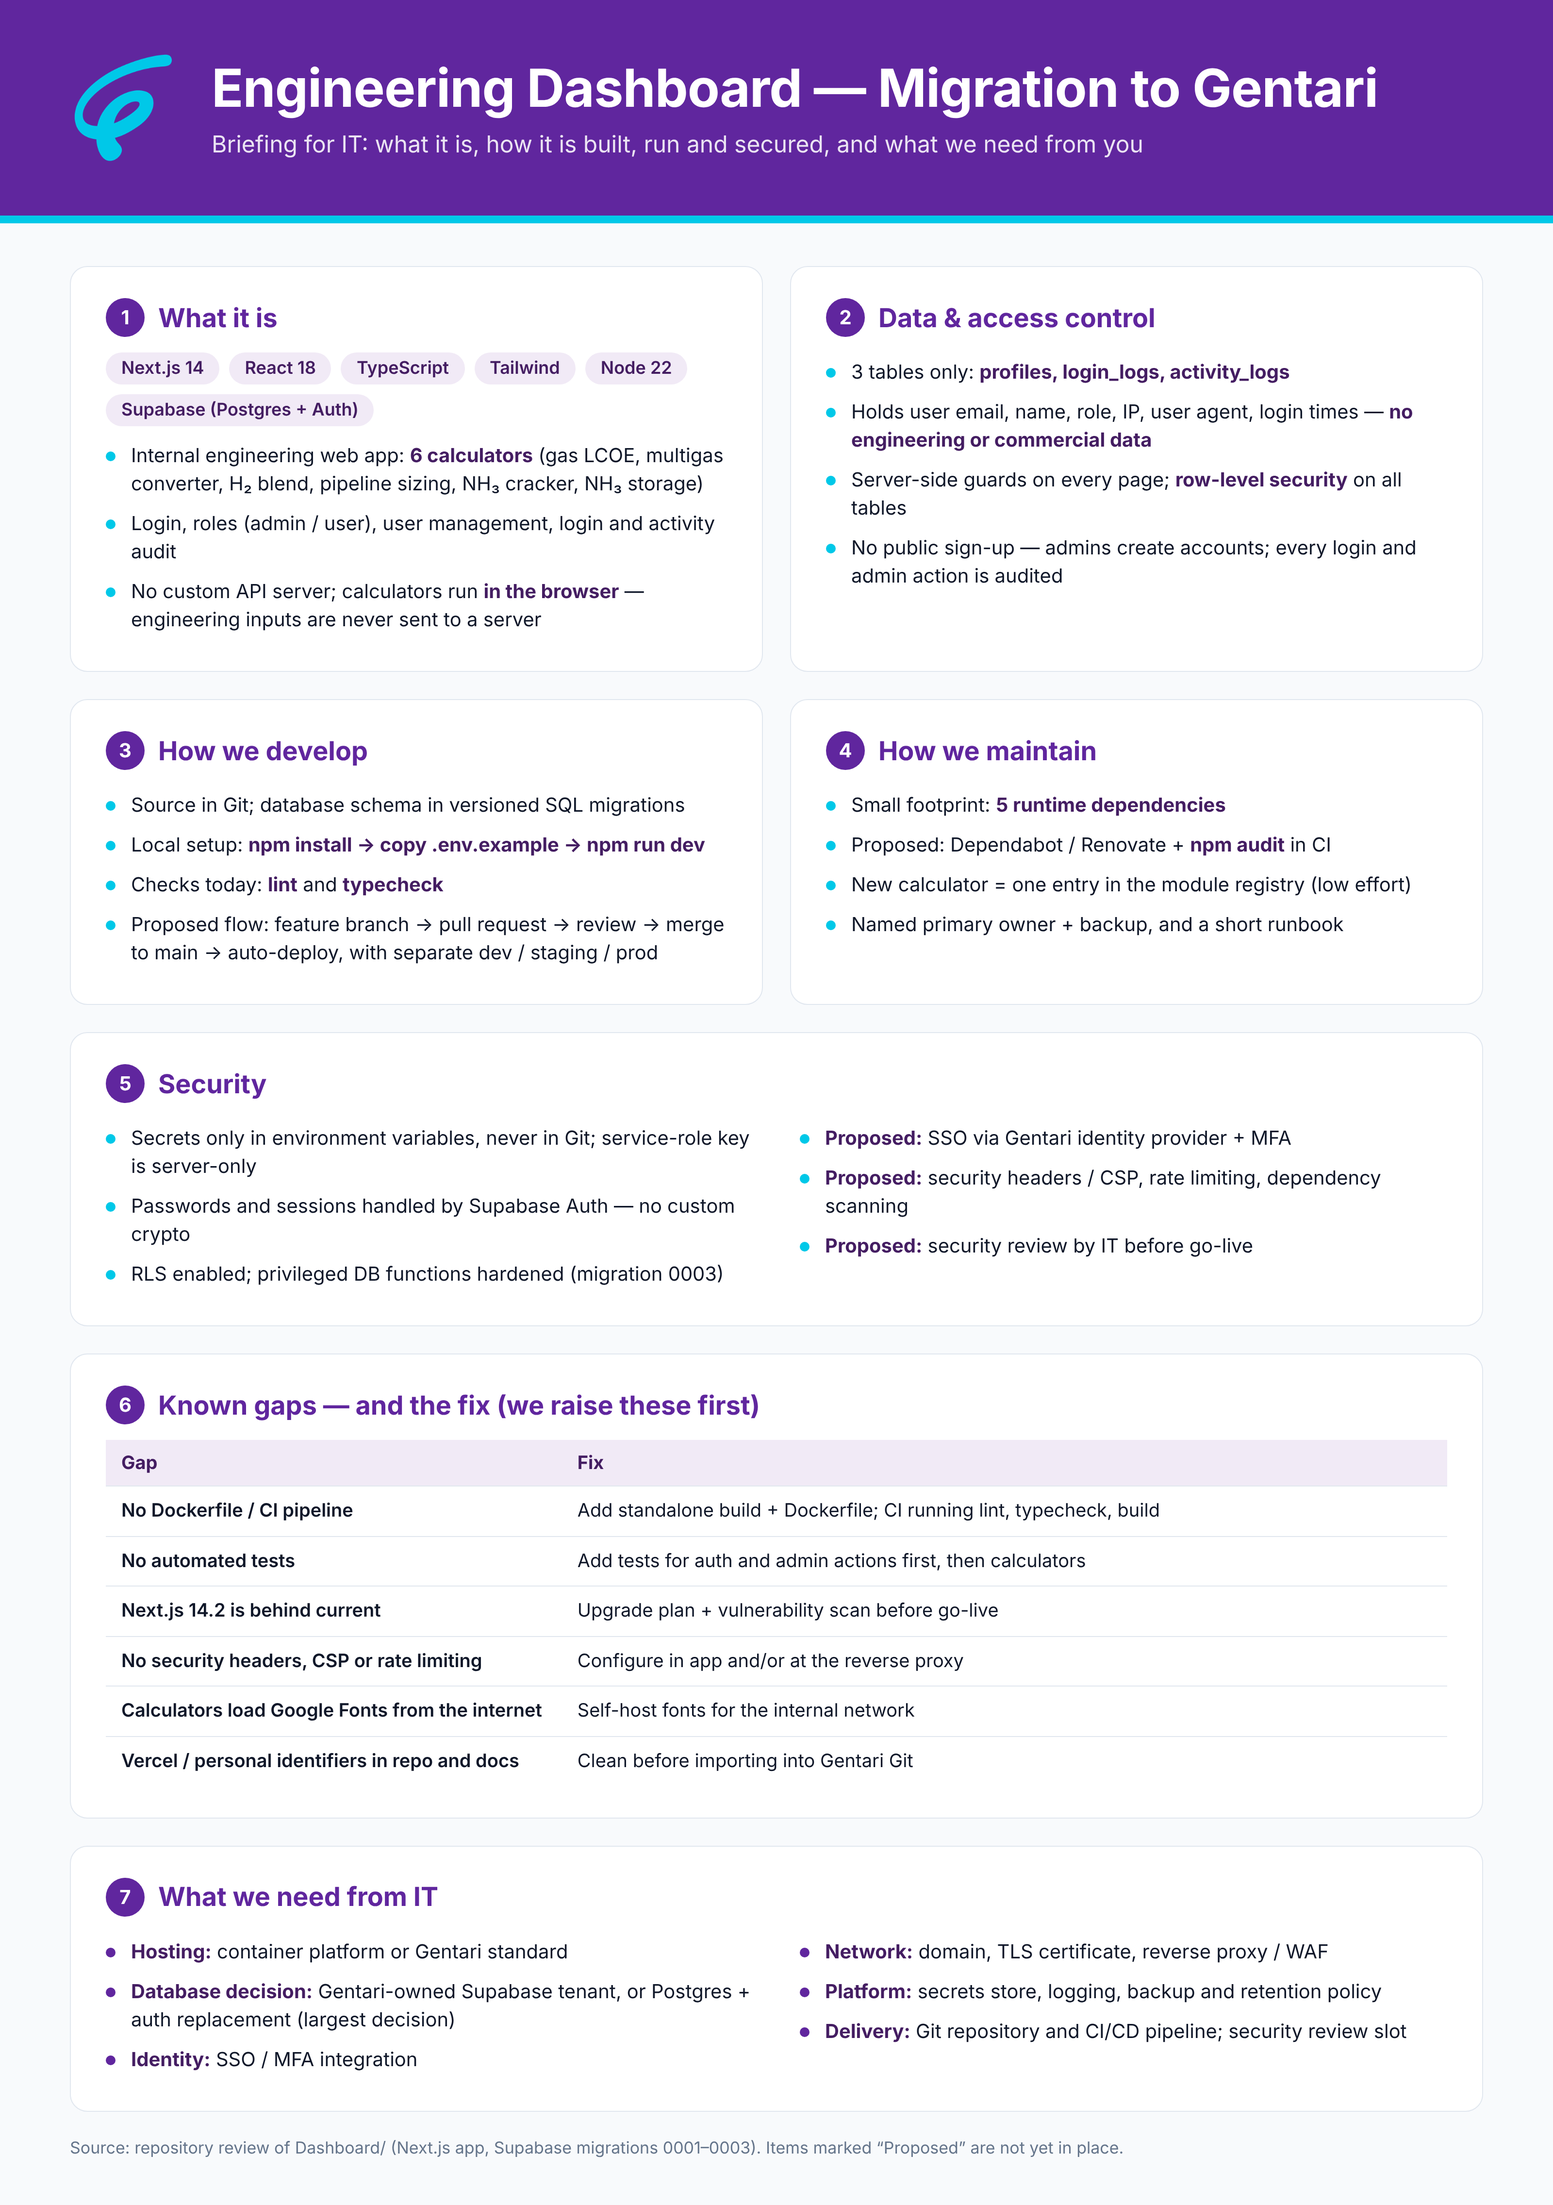
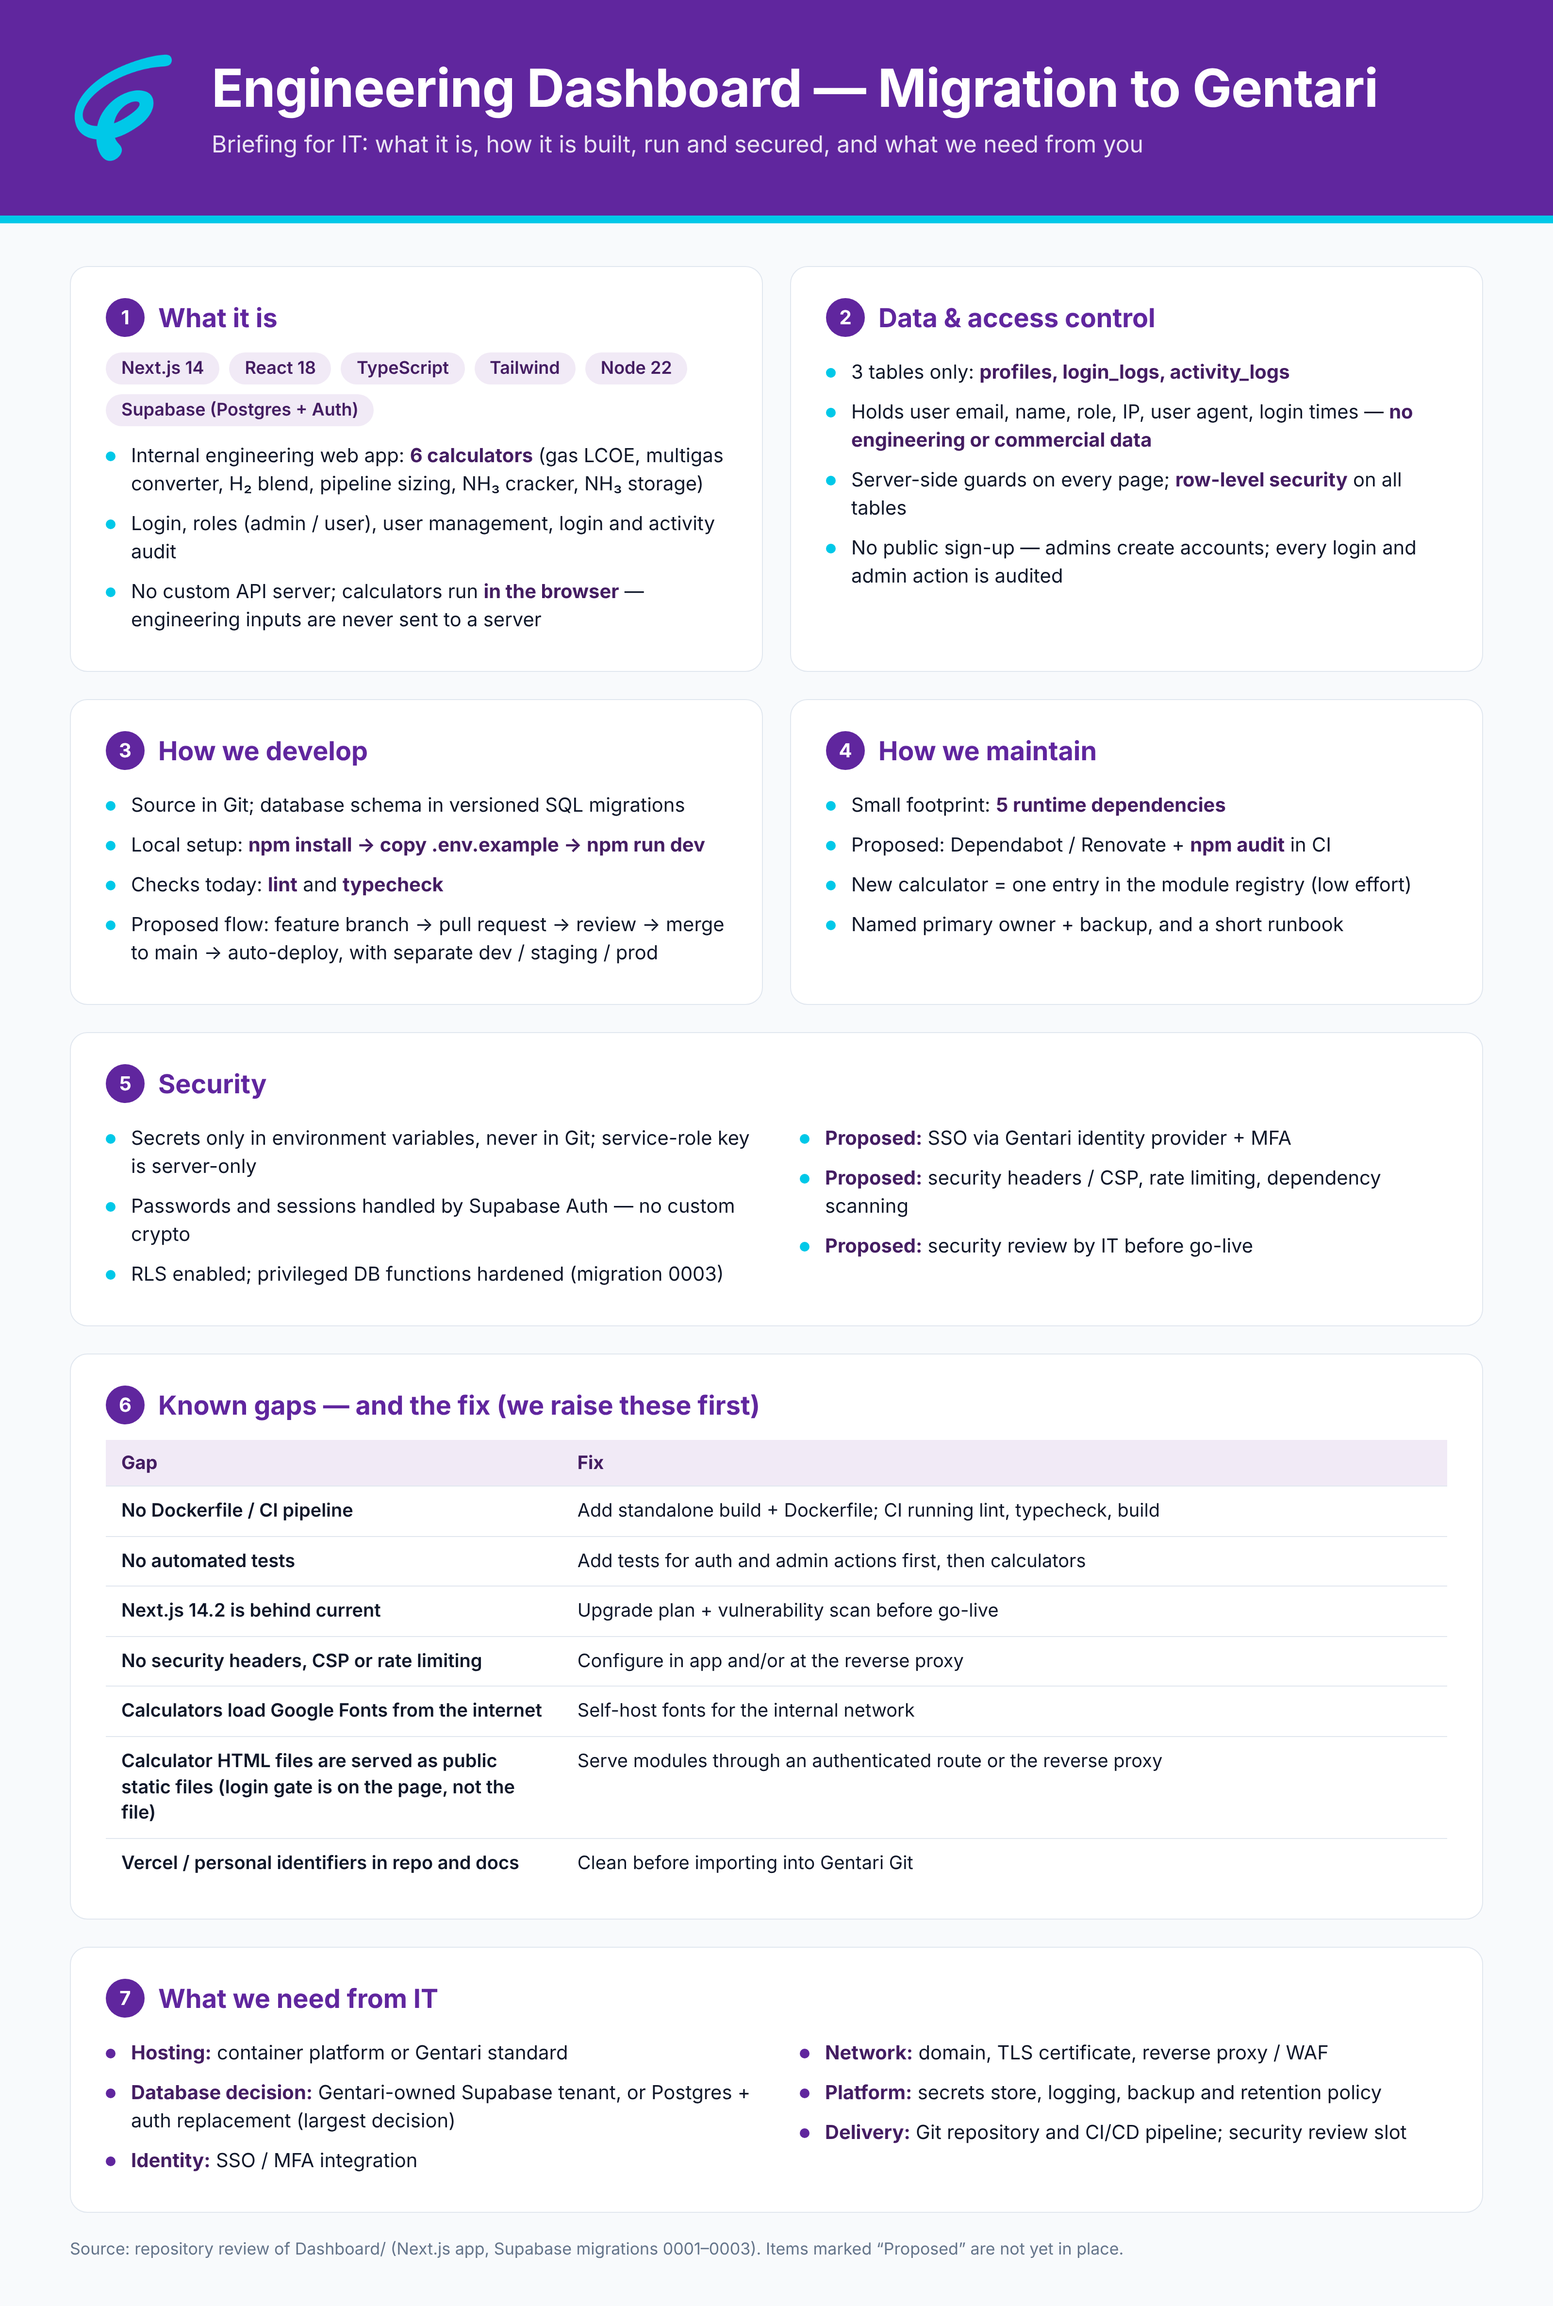
Add app flow diagram; add public-module gap to IT brief
Claude-Session: https://claude.ai/code/session_01EuttA4sADWLvwxJKQJbXMC

diff --git a/migration/app-flow.html b/migration/app-flow.html
@@ -1,0 +1,51 @@
+<!doctype html><html><head><meta charset="utf-8"><title>App Flow</title>
+<style>
+:root{--p:#60269E;--c:#00C8E8;--fg:#0F1729;--mu:#65758B;--bd:#E1E7EF;--bg:#F8FAFC;--ac:#F1EAF6;--ad:#441D62}
+*{box-sizing:border-box;margin:0}
+body{width:1600px;font-family:Inter,"Helvetica Neue",Arial,sans-serif;background:var(--bg);color:var(--fg);padding-bottom:48px}
+header{background:var(--p);color:#fff;padding:44px 72px;display:flex;align-items:center;gap:32px;border-bottom:8px solid var(--c)}
+header img{width:90px}header h1{font-size:46px}header p{font-size:22px;opacity:.88;margin-top:8px}
+.lanes{display:grid;grid-template-columns:repeat(3,1fr);gap:0;margin:40px 72px 0;border:1px solid var(--bd);border-radius:18px;overflow:hidden;background:#fff}
+.lane{padding:20px 22px 28px}.lane+.lane{border-left:1px solid var(--bd)}
+.lane h3{font-size:22px;color:var(--p);text-align:center;margin-bottom:4px}
+.lane small{display:block;text-align:center;color:var(--mu);font-size:15px;margin-bottom:18px}
+.lane:nth-child(2){background:#FBF9FD}
+.box{border:2px solid var(--p);border-radius:12px;padding:12px 14px;font-size:17px;line-height:1.35;background:#fff;text-align:center}
+.box b{color:var(--ad)}
+.box.c{border-color:var(--c)}.box.d{background:var(--ac)}
+.ar{text-align:center;color:var(--p);font-size:26px;line-height:26px;height:28px}
+.pair{display:grid;grid-template-columns:1fr 1fr;gap:10px}
+.sec{margin:34px 72px 0;display:grid;grid-template-columns:1fr 1fr;gap:28px}
+.card{background:#fff;border:1px solid var(--bd);border-radius:18px;padding:26px 32px}
+.card h2{font-size:24px;color:var(--p);margin-bottom:10px}
+li{list-style:none;font-size:19px;line-height:1.45;padding:5px 0 5px 24px;position:relative}
+li:before{content:"";position:absolute;left:0;top:15px;width:9px;height:9px;border-radius:50%;background:var(--c)}
+b{color:var(--ad)}
+</style></head><body>
+<header><img src="../Dashboard/public/branding/gentari-icon.png" alt=""><div><h1>Application Flow</h1><p>Who talks to what: browser, Next.js server, Supabase</p></div></header>
+<div class="lanes">
+<div class="lane"><h3>Browser (user)</h3><small>React UI + calculators</small>
+<div class="box"><b>Open app</b> (/)</div><div class="ar">↓</div>
+<div class="box">Sign in form<br>(<b>/login</b>)</div><div class="ar">↓</div>
+<div class="box d">Redirected by role</div><div class="ar">↓</div>
+<div class="pair"><div class="box"><b>User</b><br>/dashboard<br>/modules<br>/settings</div><div class="box"><b>Admin</b><br>/admin<br>/admin/users<br>/admin/logins<br>/admin/audit</div></div><div class="ar">↓</div>
+<div class="box c">Calculator opens in a <b>sandboxed iframe</b>; maths and <b>Excel export run in the browser</b></div></div>
+
+<div class="lane"><h3>Next.js server (Node 22)</h3><small>Server components + server actions</small>
+<div class="box"><b>Root route</b> checks session →<br>no session: /login</div><div class="ar">↓</div>
+<div class="box"><b>Login action</b><br>validates input, calls Auth, checks profile <i>disabled</i> flag</div><div class="ar">↓</div>
+<div class="box"><b>Route guards</b><br>requireUser() / requireAdmin() on every page layout</div><div class="ar">↓</div>
+<div class="box"><b>Admin actions</b><br>create, edit, reset password, disable, delete user<br>(service-role key, server-only)</div><div class="ar">↓</div>
+<div class="box c"><b>Audit service</b><br>writes login and activity records</div></div>
+
+<div class="lane"><h3>Supabase</h3><small>Managed Postgres + Auth</small>
+<div class="box"><b>Auth</b><br>passwords, sessions, tokens</div><div class="ar">↕</div>
+<div class="box"><b>profiles</b><br>role, name, disabled<br>RLS: self or admin</div><div class="ar">↕</div>
+<div class="box"><b>login_logs</b><br>IP, user agent, login/logout time<br>RLS: admin read only</div><div class="ar">↕</div>
+<div class="box"><b>activity_logs</b><br>action, target, metadata<br>RLS: admin read only</div><div class="ar">&nbsp;</div>
+<div class="box c">No engineering data stored</div></div>
+</div>
+<div class="sec">
+<div class="card"><h2>Login path</h2><ul><li>Form → login action → Supabase Auth → profile check</li><li>Disabled account: signed out immediately</li><li>Success: login_logs + activity_logs row, then redirect by role</li></ul></div>
+<div class="card"><h2>Every page request</h2><ul><li>Layout calls requireUser() or requireAdmin()</li><li>Not signed in → /login; wrong role → /unauthorized</li><li>If Supabase is unreachable, user is treated as signed out</li></ul></div>
+</div></body></html>

diff --git a/migration/it-migration-brief.html b/migration/it-migration-brief.html
@@ -68,6 +68,7 @@ td:first-child{font-weight:600;width:34%}
 <tr><td>Next.js 14.2 is behind current</td><td>Upgrade plan + vulnerability scan before go-live</td></tr>
 <tr><td>No security headers, CSP or rate limiting</td><td>Configure in app and/or at the reverse proxy</td></tr>
 <tr><td>Calculators load Google Fonts from the internet</td><td>Self-host fonts for the internal network</td></tr>
+<tr><td>Calculator HTML files are served as public static files (login gate is on the page, not the file)</td><td>Serve modules through an authenticated route or the reverse proxy</td></tr>
 <tr><td>Vercel / personal identifiers in repo and docs</td><td>Clean before importing into Gentari Git</td></tr></table></section>
 
 <section class="card wide"><h2><span class="num">7</span>What we need from IT</h2>
